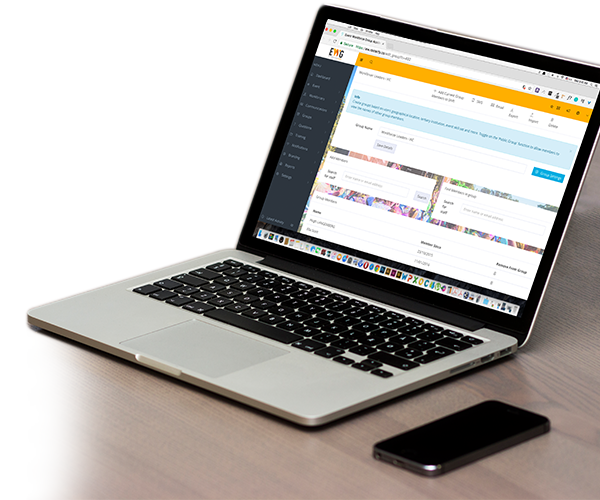
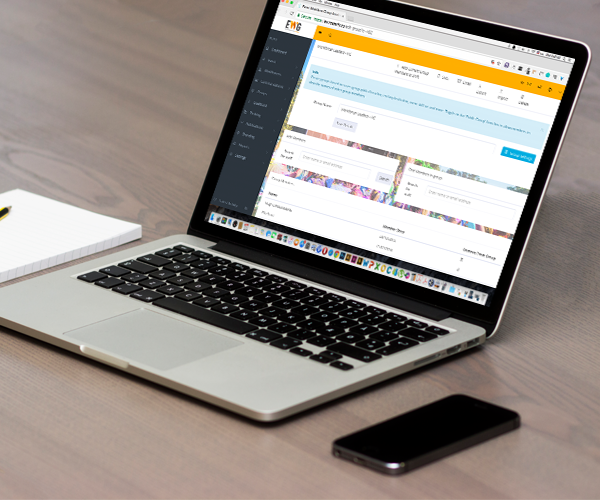
Updated Rosterfy and Training images

diff --git a/rosterfy.html b/rosterfy.html
@@ -99,7 +99,7 @@
           <p>Rosterfy is global-leading, digital workforce management platform. Enabling event organisers to employ a fully integrated scheduling software for their event staff and volunteers</p>
         </div>
         <div class="col-md-6" data-aos="fade-left" data-aos-once="true">
-          <img class="featurette-image img-responsive center-block" src="assets/images/Responsive-Rosterfy_Mockup.png" alt="Generic placeholder image">
+          <img class="img-responsive center-block" src="assets/images/Responsive-Rosterfy_Mockup.png" alt="Generic placeholder image">
         </div>
       </div>
     </div>

diff --git a/training.html b/training.html
@@ -135,7 +135,7 @@
             </div>
         </div>
         <div class="col-md-5" data-aos="fade-left" data-aos-once="true">
-          <img class="featurette-image img-responsive center-block" src="assets/images/training/training_imac.png" alt="Generic placeholder image">
+          <img class="img-responsive center-block" src="assets/images/training/training_imac.png" alt="Generic placeholder image">
         </div>
       </div>
     </div>

diff --git a/css/landing-page.css b/css/landing-page.css
@@ -461,10 +461,15 @@ content{
     margin-right: 0;
 }  
     
-    .featurette-image {
+     {
         margin-left: 0;
     }*/
     
+    
+}
+
+.featurette-image {
+    box-shadow: 0 3px 6px rgba(0,0,0,0.16), 0 3px 6px rgba(0,0,0,0.23);
     
 }
 
